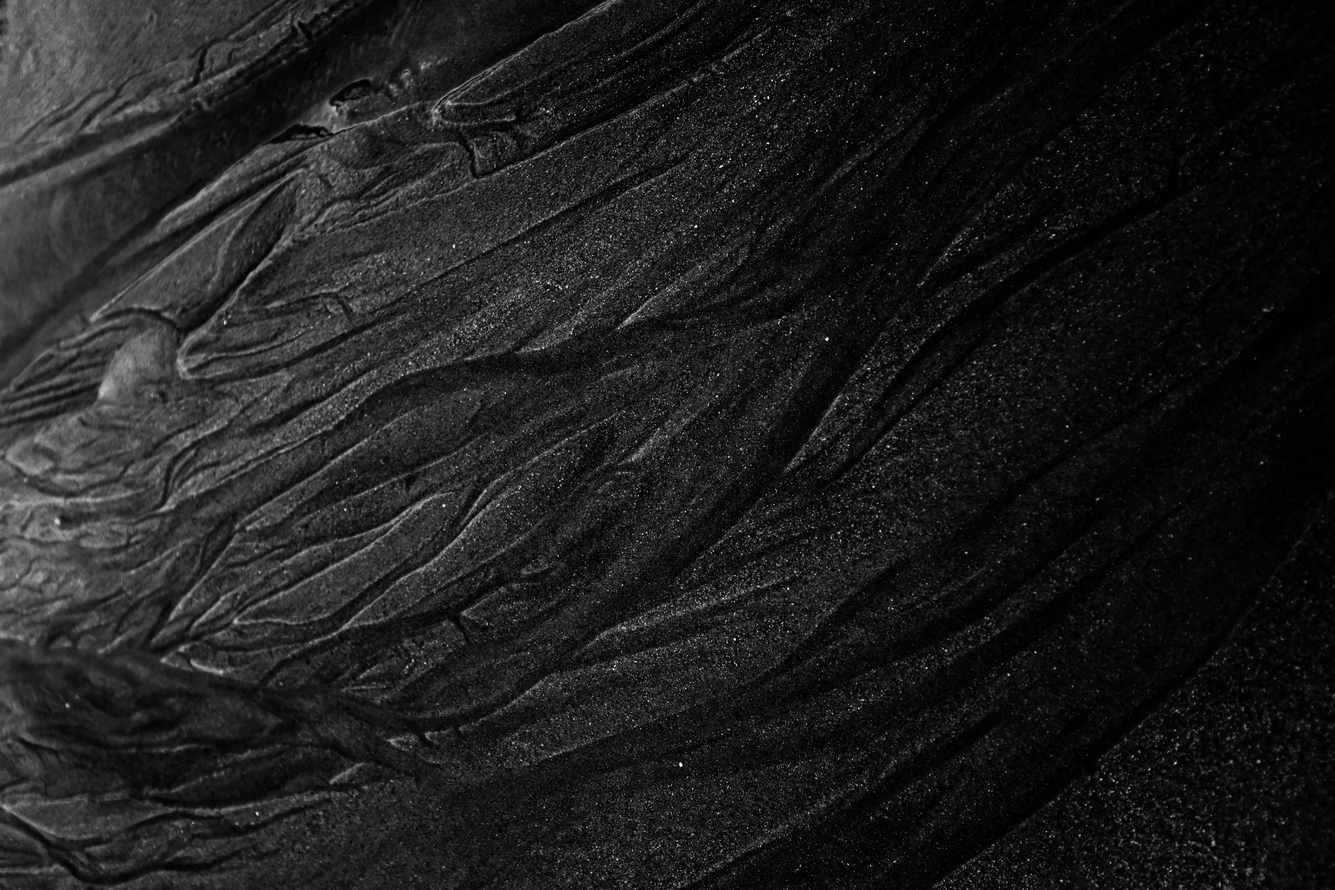
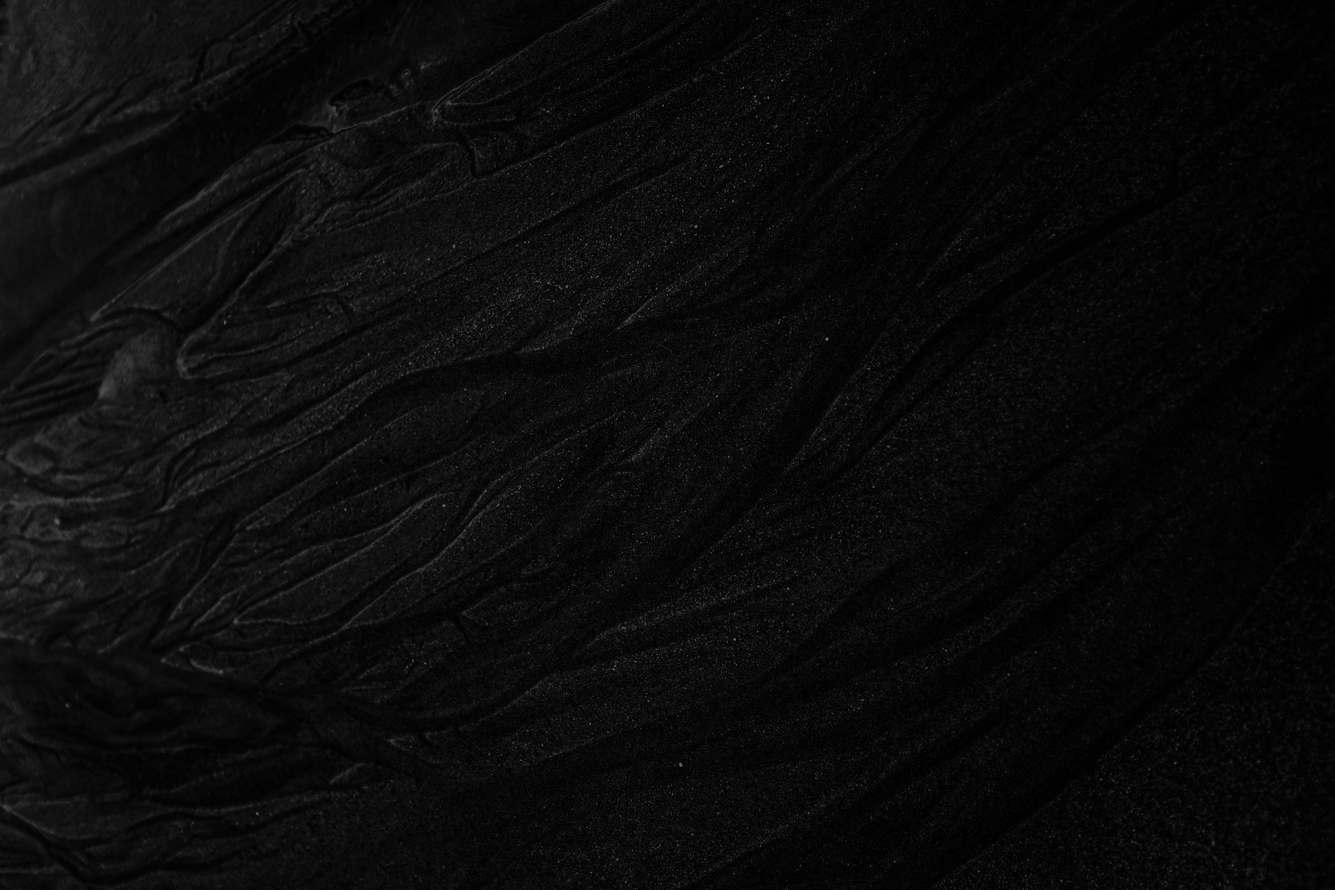
new fontstyle

diff --git a/src/sessions/AboutSection/index.jsx b/src/sessions/AboutSection/index.jsx
@@ -13,23 +13,23 @@ function AboutSection () {
         <AboutContainer visible={ menuVisible } >
             <div id="desktop">
             <AboutImage>
-                <SkillSwiper size="25vh" color="#000"/>
+                <SkillSwiper size="25vh" color="#fff"/>
             </AboutImage>
             </div>
             <AboutTextContainer>
                 <AboutTitle> &lt; Sobre mim /&gt; </AboutTitle>
                 <AboutTextFirst> 
-                    <p> Olá, meu nome é <Contrast text="Ícaro Queiroz Reccanello" color="#000"/>. Tenho 19 anos, atualmente estudante de <Contrast color="#000" text="Ciência da Computação"/> pela UENP (Universidade Estadual do Norte do Paraná),
-                    apaixonado por desenvolvimento e com o foco em <Contrast text="Front-End" color="#000"/> aqui você pode conhecer um pouco dos meus projetos. </p> 
+                    <p> Olá, meu nome é <Contrast text="Ícaro Queiroz Reccanello" color="#fff"/>. Tenho 19 anos, atualmente estudante de <Contrast color="#fff" text="Ciência da Computação"/> pela UENP (Universidade Estadual do Norte do Paraná),
+                    apaixonado por desenvolvimento e com o foco em <Contrast text="Front-End" color="#fff"/> aqui você pode conhecer um pouco dos meus projetos. </p> 
                 </AboutTextFirst>
                 <AboutTextSecond> 
-                    Conhecimento em <Contrast text="HTML5" color="#000"/>, <Contrast text="CSS3" color="#000"/>, <Contrast text="Java Script" color="#000"/> 
-                    e Frameworks e bibliotecas, como <Contrast text="React JS" color="#000"/> e <Contrast text="Styled-Components" color="#000"/>
+                    Conhecimento em <Contrast text="HTML5" color="#fff"/>, <Contrast text="CSS3" color="#fff"/>, <Contrast text="Java Script" color="#fff"/> 
+                    e Frameworks e bibliotecas, como <Contrast text="React JS" color="#fff"/> e <Contrast text="Styled-Components" color="#fff"/>
                 </AboutTextSecond>
             </AboutTextContainer>
             <div id="mobile">
             <AboutImage>
-                <SkillSwiper size="15vh" color="#000"/>
+                <SkillSwiper size="15vh" color="#fff"/>
             </AboutImage>
             </div>
         </AboutContainer>

diff --git a/src/sessions/AboutSection/style.jsx b/src/sessions/AboutSection/style.jsx
@@ -27,7 +27,6 @@ export const AboutContainer = styled.div`
     }
     }
 
-    background-color: #fff;
 `;
 
 export const AboutTextContainer = styled.div`
@@ -50,17 +49,17 @@ export const AboutTextContainer = styled.div`
 
 export const AboutTitle = styled.div`
 
-    font-family: 'Montserrat';
     margin-bottom: 5rem;
     padding: 0 10%;
-    color: ${({ theme }) => theme.primary};
-    font-size: 2.5rem;
-    font-weight: 500;
+    color: ${({ theme }) => theme.secondary};
+    font-size: 4rem;
+    font-weight: 400;
+    letter-spacing: 5px;
 
     @media (max-width: 1025px) {
         margin-left: auto;
         margin-right: auto;
-        font-size: 2rem;
+        font-size: 3rem;
         margin-bottom: 4rem;
     }
     
@@ -68,12 +67,12 @@ export const AboutTitle = styled.div`
 
 export const AboutTextFirst = styled.div`
 
-    font-weight: 400;
+    font-weight: 300;
     font-family: 'Poppins', sans-serif;
     padding: 0 10%;
     letter-spacing: 0.1vw;
     line-height: 2rem;
-    color: ${({ theme }) => theme.textSecondary};
+    color: ${({ theme }) => theme.textPrimary};
     margin-bottom: 32px;
     font-size: 1.2rem;
 
@@ -85,12 +84,12 @@ export const AboutTextFirst = styled.div`
 
 export const AboutTextSecond = styled.div`
 
-    font-weight: 400;
+    font-weight: 300;
     font-family: 'Poppins', sans-serif;
     padding: 0 10%;
     letter-spacing: 0.1vw;
     line-height: 2rem;
-    color: ${({ theme }) => theme.textSecondary};
+    color: ${({ theme }) => theme.textPrimary};
     font-size: 1.2rem;
 
     @media (max-width: 1025px) {

diff --git a/src/sessions/MainSection/style.jsx b/src/sessions/MainSection/style.jsx
@@ -1,5 +1,5 @@
 import styled, { keyframes } from "styled-components";
-import background from "../../assets/images/background2.jpg"
+import background from "../../assets/images/background.jpg"
 
 export const MainContainer = styled.div`
 
@@ -34,14 +34,15 @@ export const MainText = styled.div`
     }
 
     #name{
-        font-family: 'Poppins', sans-serif;
-        font-size: 5rem;
-        font-weight: 500;
+        
+        letter-spacing: 25px;
+        font-size: 8rem;
+        font-weight: 600;
         padding-bottom: 1.5rem;
         color: ${({ theme }) => theme.secondary}; 
 
         @media (max-width:1025px) {
-            font-size: 4rem;
+            font-size: 6rem;
             padding-bottom: 1rem;
         }
     }
@@ -60,13 +61,13 @@ const blinkCaret = keyframes`
 
 export const TypeWriter = styled.div`
 
-    p{
-        font-size: 2.5rem;
+    p{  
+        letter-spacing: 5px;
+        font-size: 3rem;
         color: ${({ theme }) => theme.secondary};
-        font-family: 'Poppins', sans-serif;
-        font-weight: 300;
+        font-weight: 400;
         overflow: hidden;
-        border-right: .15em solid orange;
+        border-right: .15em solid white;
         white-space: nowrap;
         margin: 0 auto;
         animation: 

diff --git a/src/components/Header/style.jsx b/src/components/Header/style.jsx
@@ -47,7 +47,7 @@ export const MenuStyled = styled.ul`
     flex-direction: row;
     margin: 0;
     padding: 0 10%;
-    font-weight: 600;
+    font-weight: 300;
     overflow: hidden;
     transition: all ease 0.5s;
 
@@ -71,7 +71,7 @@ export const MenuStyled = styled.ul`
         position: absolute;
         top: calc(68px);
         transform: translateX(${({ visible }) => visible ? "0" : "100vw" });
-        background: rgba(11, 11, 11, 0.75);
+        background: rgba(0, 0, 0, 0.75);
         box-shadow: 0 4px 30px rgba(0, 0, 0, 0.1);
         backdrop-filter: blur(10.4px);
         -webkit-backdrop-filter: blur(10.4px);

diff --git a/src/sessions/ProjectsSection/style.jsx b/src/sessions/ProjectsSection/style.jsx
@@ -2,7 +2,19 @@ import styled from "styled-components";
 
 export const Container = styled.div`
 
-    width: 100vw;
-    height: 100vh;
+    max-width: 100vw;
+    min-height: 100vh;
+    display: flex;
+    flex-direction: row;
+    align-items: flex-start;
+    justify-content: center;
+    padding: 2rem 20%;
+
+    @media (max-width: 1025px) {
+        flex-direction: column;
+        justify-content: flex-start;
+        align-items: center;
+        padding: 2rem 0;
+    }
 
 `

diff --git a/src/index.js b/src/index.js
@@ -6,6 +6,7 @@ import GlobalStyle from "./styles/GlobalStyle";
 import { ThemeProvider } from 'styled-components';
 import ResetCSS from './styles/ResetCSS';
 import { AuthProvider } from './providers/auth';
+import FontStyle from './styles/FontStyle';
 
 const theme = {
   primary: "#000000",
@@ -22,6 +23,7 @@ root.render(
     <ThemeProvider theme={theme}>
       <ResetCSS />
       <GlobalStyle />
+      <FontStyle />
       <AuthProvider>
         <App />
       </AuthProvider>

diff --git a/src/sessions/ContactSection/style.jsx b/src/sessions/ContactSection/style.jsx
@@ -8,10 +8,11 @@ export const Container = styled.div`
     flex-direction: column;
     justify-content: center;
     align-items: center;
-    padding: 2rem 0;
+    padding-top: 2rem;
 
     p{
         margin-bottom: 32px;
+        font-weight: 300;
         font-family: 'Poppins', sans-serif;
     }
 `;

diff --git a/src/styles/FontStyle.jsx b/src/styles/FontStyle.jsx
@@ -1,0 +1,14 @@
+import { createGlobalStyle } from "styled-components";
+import Gumok from "../assets/fonts/Gumok.otf"
+
+const FontStyle = createGlobalStyle`
+
+@font-face {
+
+  font-family: 'Gumok';
+  src: url(${Gumok}) format('opentype')
+
+}
+`;
+
+export default FontStyle;

diff --git a/src/sessions/ProjectsSection/index.jsx b/src/sessions/ProjectsSection/index.jsx
@@ -1,11 +1,12 @@
 import React from "react";
 import { Container } from "./style"
+import ProjectCard from "../../components/ProjectCard"
 
 function ProjectSection () {
     return (
 
         <Container>
-
+            <ProjectCard />
         </Container>
 
     )

diff --git a/src/styles/GlobalStyle.jsx b/src/styles/GlobalStyle.jsx
@@ -22,7 +22,7 @@ const GlobalStyle = createGlobalStyle`
     }
 
     body{
-        font-family: 'Montserrat', sans-serif;
+        font-family: 'Gumok', sans-serif;
         overflow-x: hidden;
         background-image: linear-gradient(90deg,#151515,#000);
     }

diff --git a/src/components/ProjectCard/index.jsx b/src/components/ProjectCard/index.jsx
@@ -1,0 +1,14 @@
+import React from "react"
+import { Container } from "./style"
+
+function ProjectCard () {
+    return(
+
+        <Container>
+
+        </Container>
+
+    )
+}
+
+export default ProjectCard

diff --git a/src/App.js b/src/App.js
@@ -13,6 +13,7 @@ function App() {
       <Header />
       <MainSection />
       <AboutSection />
+      <TransitonSection />
       <ProjectSection />
       <TransitonSection />
       <ContactSection />
